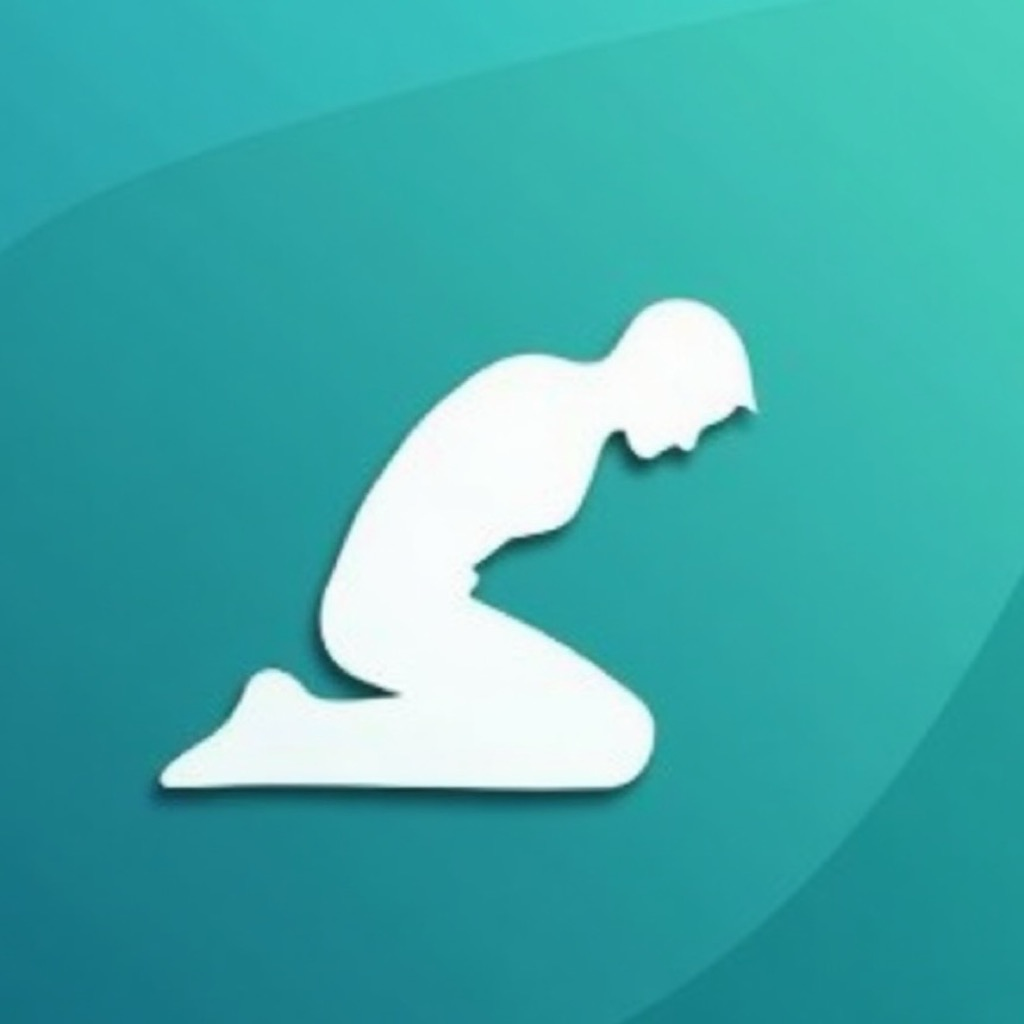
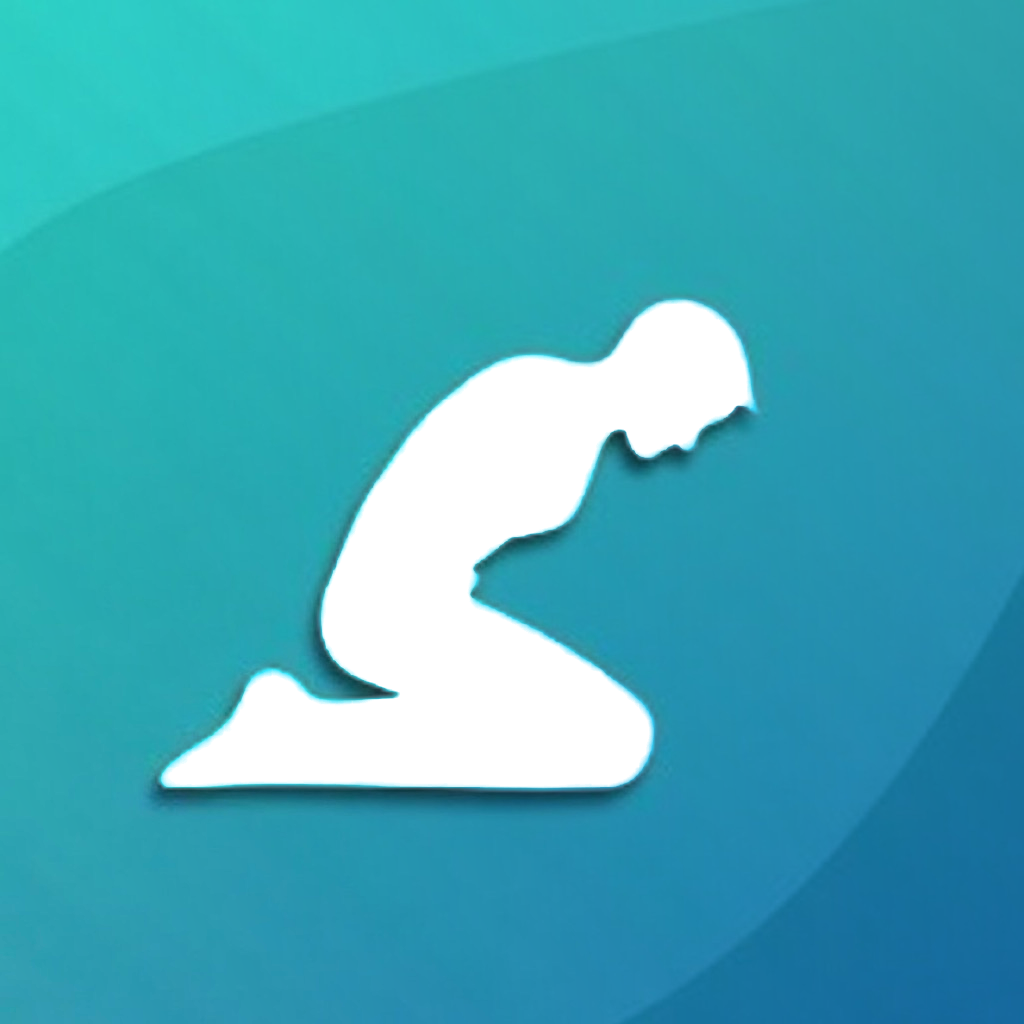
feat(nav+tools): two products in the nav, Tools out, and consistent pose art
Nav: Tools removed - its entries are filtered under Work and it stays in the
footer - and Rehab Pro added beside Canary. Both marks are the real app icon.
A hand-drawn SVG figure was tried first and abandoned: at 18px every variant
collapsed into a pilcrow, because a head circle beside a curved back reads as a
letterform. The actual icon is better branding anyway. Both product links are
shrink-0 + whitespace-nowrap so neither ever breaks to a second line.

Tools: Domain Hub archived. Canary and Rehab Pro lead the page as products,
ahead of the smaller utilities.

Pose art: pose2 and pose4 were generated with the gradient running the opposite
way - bright at top-right - and none of 2/3/4 reached pose1's blue corner, so
the set looked mismatched on each visit. Each figure is now re-lit on pose1's
fitted gradient, keeping its own shadow via a residual ratio. Done with a
throwaway pure-Node PNG codec; no image libraries are installed here.

diff --git a/src/components/layout/Navbar.jsx b/src/components/layout/Navbar.jsx
@@ -5,11 +5,16 @@ import { useTranslation } from 'react-i18next'
 import LanguageSwitcher from '../ui/LanguageSwitcher'
 import Logo, { LogoMark } from '../ui/Logo'
 
-const LINKS = [['/work', 'Work', 'work'], ['/about', 'About', 'about'], ['/tools', 'Tools', 'tools'], ['/contact', 'Contact', 'contact']]
+// Tools is deliberately absent: its entries are filtered under Work, and the
+// nav has two products to carry now. It stays linked from the footer.
+const LINKS = [['/work', 'Work', 'work'], ['/about', 'About', 'about'], ['/contact', 'Contact', 'contact']]
 
-// Canary is a product rather than another section of the portfolio, so it sits
-// apart from LINKS with its own mark.
+// The two products sit apart from LINKS, each with its own mark. Both are the
+// real app icon rather than a drawn glyph: a hand-authored figure for Rehab Pro
+// collapsed into an unreadable blob at 18px, and the actual icon is better
+// branding anyway - people recognise the thing they are about to download.
 const CANARY_ICON = '/canary/canary.png'
+const REHAB_ICON  = '/rehabpro/icon.png'
 
 // Routes whose hero is dark from the very top — nav needs light text until scrolled.
 // Routes whose hero is dark, so the transparent (unscrolled) bar needs light
@@ -57,9 +62,14 @@ export default function Navbar() {
             </ul>
             <span className={`${baseText} opacity-20`}>|</span>
             <NavLink to="/canary" className={({ isActive }) =>
-              `group flex items-center gap-1.5 px-3 py-2 text-xs font-bold uppercase tracking-[0.1em] transition-colors ${isActive ? 'text-violet' : `${baseText} hover:text-violet`}`}>
+              `group flex shrink-0 items-center gap-1.5 whitespace-nowrap px-3 py-2 text-xs font-bold uppercase tracking-[0.1em] transition-colors ${isActive ? 'text-violet' : `${baseText} hover:text-violet`}`}>
               <img src={CANARY_ICON} alt="" width="18" height="18" className="transition-transform duration-300 group-hover:-translate-y-0.5" />
               Canary
+            </NavLink>
+            <NavLink to="/rehabpro" className={({ isActive }) =>
+              `group flex shrink-0 items-center gap-1.5 whitespace-nowrap px-3 py-2 text-xs font-bold uppercase tracking-[0.1em] transition-colors ${isActive ? 'text-violet' : `${baseText} hover:text-violet`}`}>
+              <img src={REHAB_ICON} alt="" width="18" height="18" className="rounded-[4px] transition-transform duration-300 group-hover:-translate-y-0.5" />
+              Rehab Pro
             </NavLink>
             <span className={`${baseText} opacity-20`}>|</span>
             <LanguageSwitcher baseText={baseText} />
@@ -92,6 +102,12 @@ export default function Navbar() {
                 <Link to="/canary" onClick={() => setOpen(false)} className="font-display font-black text-5xl flex items-center gap-3">
                   <img src={CANARY_ICON} alt="" width="46" height="46" />
                   Canary
+                </Link>
+              </motion.div>
+              <motion.div initial={{ y: 30, opacity: 0 }} animate={{ y: 0, opacity: 1 }} transition={{ delay: 0.05 * (LINKS.length + 1) }}>
+                <Link to="/rehabpro" onClick={() => setOpen(false)} className="font-display font-black text-5xl flex items-center gap-3 whitespace-nowrap">
+                  <img src={REHAB_ICON} alt="" width="46" height="46" className="rounded-[10px]" />
+                  Rehab Pro
                 </Link>
               </motion.div>
             </div>

diff --git a/src/pages/Tools.jsx b/src/pages/Tools.jsx
@@ -9,6 +9,28 @@ import { fadeUp, stagger, inView } from '../lib/motion'
 
 const TOOLS = [
   {
+    key: 'canary',
+    name: 'Canary',
+    icon: 'activity',
+    badge: 'Free',
+    url: '/canary',
+    external: false,
+    cta: 'Open Canary',
+    desc: 'Windows diagnostics that reads the counters inside your hardware rather than the pass/fail badge a vendor tool shows you. Finds failing drives and silent crashes, and explains every finding in plain English.',
+    tech: ['PowerShell', 'WPF', 'WMI/CIM', 'No install'],
+  },
+  {
+    key: 'rehabpro',
+    name: 'Rehab Pro',
+    icon: 'smartphone',
+    badge: 'Coming soon',
+    url: '/rehabpro',
+    external: false,
+    cta: 'See Rehab Pro',
+    desc: 'iPhone app that builds a daily rehab plan around where it hurts, how it hurts today, and the time you actually have. Reads Apple Health to suggest recovery stretches after a workout.',
+    tech: ['iOS', 'SwiftData', 'HealthKit', 'On-device'],
+  },
+  {
     key: 'ppt-speech',
     name: 'PowerPoint Speech Tool',
     icon: 'presentation',
@@ -40,18 +62,6 @@ const TOOLS = [
     cta: 'Launch KOM Memorial',
     desc: 'Log every King of the Mountain segment you hold. When someone steals your crown, give it the send-off it deserves — auto-generated funny obituary, days-held counter, and a shareable 1080×1080 PNG memorial card ready for Instagram. No Strava API needed.',
     tech: ['Node.js', 'Express', 'Vercel', 'No API', 'PNG Export'],
-  },
-  {
-    key: 'domain-hub',
-    name: 'Domain Hub',
-    icon: 'globe',
-    badge: 'In Progress',
-    wip: true,
-    url: 'https://domain-hub-khaki.vercel.app',
-    external: true,
-    cta: 'Preview Domain Hub',
-    desc: "Find, evaluate, and manage domain names for flipping. Auto-generate TLD combinations and score each domain's resale potential with a valuation engine, bulk-register via a simulated Namecheap checkout, and track your portfolio in one dashboard.",
-    tech: ['React', 'Vite', 'Node.js', 'Namecheap API', 'WHOIS', 'Vercel'],
   },
 ]
 

diff --git a/src/components/layout/Footer.jsx b/src/components/layout/Footer.jsx
@@ -149,6 +149,7 @@ export default function Footer() {
                 <Link key={to} to={to} className="hover:text-cyan transition-colors">{t(`nav.${key}`, label)}</Link>
               ))}
               <Link to="/canary" className="hover:text-cyan transition-colors">Canary</Link>
+              <Link to="/rehabpro" className="hover:text-cyan transition-colors">Rehab Pro</Link>
               <a href="/GRVT.html" className="hover:text-cyan transition-colors">GRVT</a>
             </nav>
           </div>
